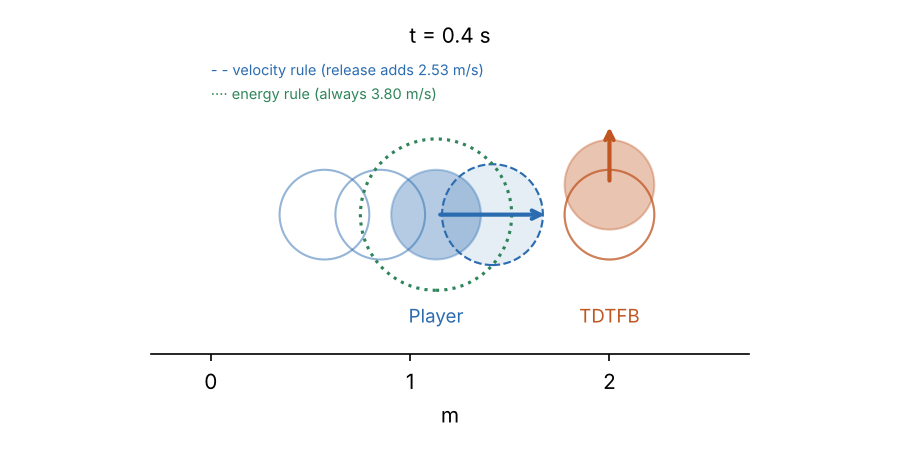
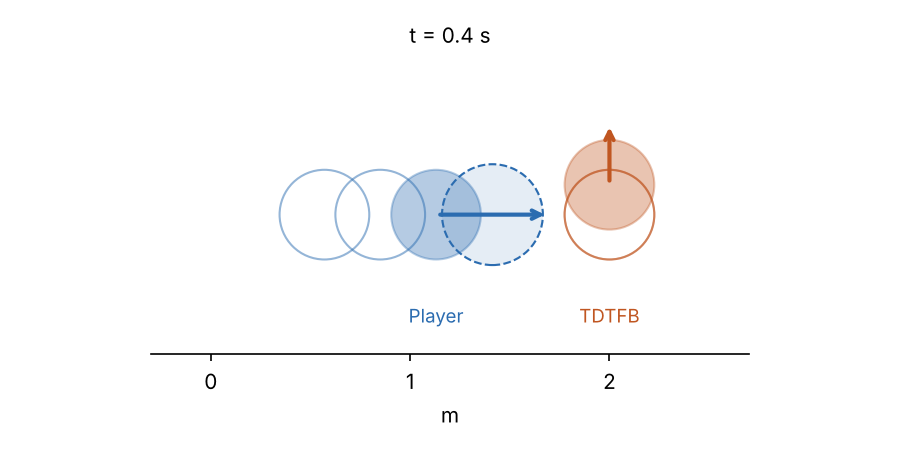
Combat rules: releases add a velocity change (slowing costs energy)
Claude-Session: https://claude.ai/code/session_01RGpbufgYSJT2n4v1xECmZw

diff --git a/docs/combat/frames/render_frame.py b/docs/combat/frames/render_frame.py
@@ -35,10 +35,4 @@ ax.add_patch(Circle((px + pvx * DT, py + pvy * DT), dv * DT,
                     color="#2b6cb0", alpha=.12, ls="--", lw=1))
 ax.add_patch(Circle((px + pvx * DT, py + pvy * DT), dv * DT,
                     fill=False, color="#2b6cb0", ls="--", lw=1))
-# Comparison: "adds exactly its energy" rule -> final speed sqrt(v0^2 + 2E/m)
-# in any direction, measured from the current position.
-v_e = math.sqrt(pvx**2 + pvy**2 + 2 * STORED / M)
-ax.add_patch(Circle((px, py), v_e * DT, fill=False, color="#2f855a", ls=":", lw=1.5))
-ax.text(.0, .7, "- - velocity rule (release adds 2.53 m/s)", fontsize=7, color="#2b6cb0")
-ax.text(.0, .58, "···· energy rule (always 3.80 m/s)", fontsize=7, color="#2f855a")
 fig.tight_layout(); fig.savefig(sys.argv[1] if len(sys.argv) > 1 else f"docs/combat/frames/t{t}.png")

diff --git a/docs/combat/rules.md b/docs/combat/rules.md
@@ -29,8 +29,13 @@ foot+shin 4.3 kg, whole leg 12 kg, head 6 kg, whole body 75 kg.
 - Charging time for a release = energy / P.
 
 ## Movement
-- Whole-body launch: KE = released stored energy; further releases on later
-  turns add to the existing motion.
+- A release of energy E_r into whole-body motion adds a velocity change of
+  magnitude Δv = √(2·E_r/m) in any chosen direction (vector addition to the
+  current velocity). Pushing forward gains more than E_r of KE; slowing down or
+  reversing costs effort (backward Δv removes KE). From rest this is just
+  KE = E_r.
+- Reachable region after one step Δt: a disk centred on the coasting position,
+  radius Δv·Δt (full release on the edge, partial releases inside).
 - No friction or drag: a moving body keeps its velocity until it spends
   energy again. No speed cap (deliberately unrealistic over long distances;
   revisit if it matters).
@@ -47,8 +52,6 @@ foot+shin 4.3 kg, whole leg 12 kg, head 6 kg, whole body 75 kg.
 - An entity sees others' positions and velocities, not their stored energy.
 
 ## Open questions
-- Turning while moving: cost of changing direction (rotate velocity at
-  constant KE? or must the old component be cancelled with energy?).
 - Collision resolution: what happens when the bodies meet (who deposits
   what into whom; momentum vs energy).
 - Does the 0.5 s pre-launch charge (300 J at 600 W) count, and is it visible?
